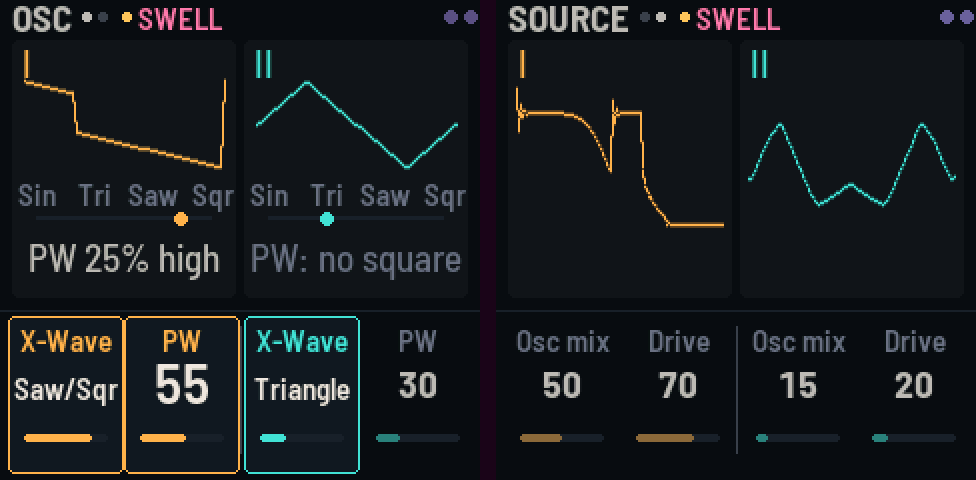
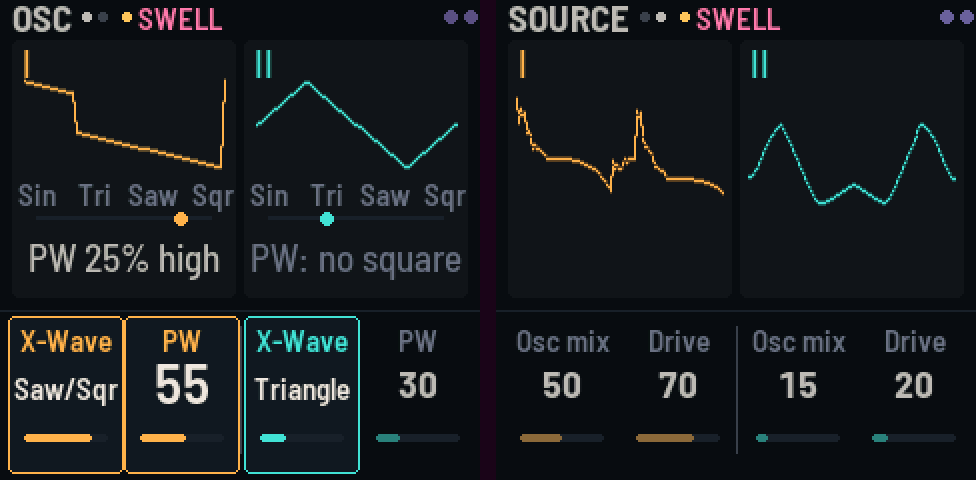
The black keys' map while SEL is held; SEL holds a crossfade where it is
Hold SEL for 0.4 s and the screen shows every black key on this page in the panel's groups, lit as
the keys are, with each one's name and setting (the LFO pages' routing layer there). A turning knob
or a held white key takes the screen back.

Keeping a crossfade with SEL didn't work on the device: a finger's pressure falls on its way up,
before the key counts as let go, and the blend followed it back to the start. Now SEL down holds the
blend where it is; letting go keeps it. The crossfade scenario lifts the finger gradually (without
the fix it lands at the start).

diff --git a/web/emu/index.html b/web/emu/index.html
@@ -391,7 +391,7 @@ kbd { font: 500 .85em var(--mono); background: var(--card); border: 1px solid va
   <h2 class="sec"><span>Switches</span></h2>
 
   <div class="g-card full">
-    <h3>Black keys <span class="g-sub">some step through settings: dark → lit → winking</span></h3>
+    <h3>Black keys <span class="g-sub">some step through settings: dark → lit → winking · hold <span class="cap">SEL</span>: the map on screen</span></h3>
     <div class="kmap">
       <h4>Normal</h4>
       <div class="krow">
@@ -509,7 +509,7 @@ kbd { font: 500 .85em var(--mono); background: var(--card); border: 1px solid va
     </div>
     <dl class="acts">
       <div><dt>Go to a scene</dt><dd>Tap a <span class="cap white">white key</span></dd></div>
-      <div><dt>Visit, then come back</dt><dd>Hold a <span class="cap white">white key</span>, let go (on the FM‑1: press harder to go further in, all the way to take it, <span class="cap">SEL</span> as you let go to keep the blend)</dd></div>
+      <div><dt>Visit, then come back</dt><dd>Hold a <span class="cap white">white key</span>, let go (on the FM‑1: press harder to go further in, all the way to take it, <span class="cap">SEL</span> while holding, then let go, to keep the blend)</dd></div>
       <div><dt>Save a sound to a scene</dt><dd>Hold <span class="cap">SAVE</span> first, then tap a <span class="cap white">white key</span></dd></div>
       <div><dt>Pick a bank</dt><dd>Hold <span class="cap">SEL</span>, tap one of the top four <span class="cap white">white keys</span>: A · B · C · Presets (alone they’re the gestures)</dd></div>
       <div><dt>Save everything</dt><dd>Tap <span class="cap">SAVE</span></dd></div>

diff --git a/firmware/src/app/ui.c b/firmware/src/app/ui.c
@@ -136,6 +136,7 @@ static struct {
     int8_t save_q;                     /* a save waiting for the dip (playing): -2 none, -1 the sound, N scene N */
     uint32_t save_t;                   /* ... asked then */
     uint32_t arp_t;                    /* the last ARP tap (two quick taps: stay on the Swell page) */
+    uint32_t sel_t;                    /* when SEL went down (held 0.4 s: the black keys' map) */
     uint8_t v2_out;                    /* drone II faded out on its own (SEL + PLAY) */
     uint32_t rst_t;                    /* when the LFO reset key went down (a hold locks the LFO to the pulse) */
     uint8_t rst_done;                  /* that hold has acted */
@@ -855,6 +856,26 @@ static void press_run(void)                            /* each frame, while a sc
     uint32_t now = plat_ms();
     if (ui.press < 0)
         return;
+    if ((ui.btn >> B_SEL & 1u) && !ui.press_done && now - ui.press_t0 >= PR_TAP_MS) {
+        /* SEL down during a crossfade: the blend holds where it is, so lifting the finger (its pressure falls
+         * on the way up, before the key lets go) can't take it back; let go to keep it */
+        ui.btn_used |= 1u << B_SEL;
+        ui.press_hi_t = 0;
+        scene_name(t, proj.bank, ui.press);
+        {
+            char *q = t;
+            while (*q)
+                q++;
+            *q++ = ' ';
+            *q++ = ' ';
+            itoa_u((uint32_t)(ui.press_x * 100.0f + 0.5f), q);
+            while (*q)
+                q++;
+            scopy(q, "%");
+        }
+        say_c(t, "HELD", K_GOLD);
+        return;
+    }
     p = press_scaled(plat_pressure(WHITE_K[ui.press]));
     x = fm_clampf(((float)p / 127.0f - PR_DEAD) / (PR_FULL - PR_DEAD), 0.0f, 1.0f);
     if ((float)p / 127.0f >= PR_COMMIT) {
@@ -1060,6 +1081,8 @@ static void input(void)
     save_run();
     ch = btn ^ ui.btn;
     ui.btn = btn;
+    if ((ch & btn) >> B_SEL & 1u)
+        ui.sel_t = plat_ms();
     for (i = 0; i < NB; i++) {
         uint32_t m = 1u << i;
         if (!(ch & m))
@@ -2046,6 +2069,71 @@ static void pic_tone2(int32_t y0)
     cv_text(128, y0 + 100, &FONT_XS, "not in scenes", K_DIM);
 }
 
+/* THE BLACK KEYS' MAP (SEL held 0.4 s, nothing else asking for the screen: a knob turning, a white key held): the
+ * eleven keys as the panel groups them, each row a group (drone I | the global two | drone II | the links |
+ * cross-mod), its keys lit as the panel's are, each key's name and setting. The LFO pages' layer on those pages */
+#define KEYMAP_MS 400u
+static int keymap_on(void)
+{
+    uint32_t white = 0, i;
+    for (i = 0; i < NWHITE; i++)
+        white |= 1u << WHITE_K[i];
+    return (ui.btn >> B_SEL & 1u) && plat_ms() - ui.sel_t >= KEYMAP_MS && !lit(0) && !lit(1) && !lit(2) &&
+           !lit(3) && !(ui.keys & white) && ui.press < 0;
+}
+static void sw_text(sw_t w, const char **name, const char **st)
+{
+    static const char *const SUB[5] = {"", "-1 oct", "-2 oct", "1/3", "1/5"}, *const MODE[3] = {"LP", "BP", "HP"};
+    static const char *const TAP[4] = {"off", "I", "II", "I+II"};
+    const int16_t *p = &proj.par[DR_GP(w.g, 0)];
+    int on = sw_get(w);
+    *st = on ? "on" : "off";
+    switch (w.s) {
+    case S_PARTNER: *name = "Partner"; break;
+    case S_SUBOCT: *name = "Sub"; *st = SUB[(unsigned)p[GP_SUBOCT] < 5u ? p[GP_SUBOCT] : 1]; break;
+    case S_HP: *name = "Filter"; *st = MODE[(unsigned)p[GP_MODE] < 3u ? p[GP_MODE] : 0]; break;
+    case S_PLOCK: *name = "Pitch lock"; break;
+    case S_LFORESET: *name = "LFO reset"; *st = proj.par[P_LFO_LOCK] ? "locked" : "tap"; break;
+    case S_PLINK: *name = "Pitch link"; break;
+    case S_SYNC: *name = "Hard sync"; break;
+    case S_XMOD: *name = "X-mod"; break;
+    case S_OTAP: *name = "Osc LFO"; *st = TAP[(unsigned)p[GP_OLFO] & 3u]; break;
+    case S_ODEST: *name = "Osc to"; *st = on ? "X-Wave" : "Pitch"; break;
+    case S_FDEST: *name = "Filt to"; *st = on ? "Reso" : "Cutoff"; break;
+    case S_FTAP: *name = "Filt LFO"; *st = TAP[(unsigned)p[GP_FLFO] & 3u]; break;
+    case S_DTAP: *name = "Dly LFO"; *st = TAP[(unsigned)proj.par[P_DLY_LFO] & 3u]; break;
+    default: *name = ""; *st = ""; break;
+    }
+}
+/* rows r0 .. r1 - 1 of the map from y0 (38 px a row): the picture holds the first three, the values' place the
+ * last two and the line about SEL's other uses */
+#define KEYMAP_ROW 38
+static void keymap_rows(int32_t y0, int r0, int r1)
+{
+    static const uint8_t GROUP[5][2] = {{0, 3}, {3, 2}, {5, 3}, {8, 2}, {10, 1}};   /* first key, how many */
+    const sw_t *layer = sw_layer();
+    int r, k;
+    for (r = r0; r < r1; r++) {
+        int32_t y = y0 + (r - r0) * KEYMAP_ROW;
+        uint16_t c = r == 0 ? K_DRONE[0] : r == 2 ? K_DRONE[1] : K_TEXT2;
+        if (r == 0 || r == 2)
+            cv_text(10, y + 8, &FONT_S, r ? "II" : "I", c);
+        for (k = 0; k < GROUP[r][1]; k++) {
+            sw_t w = layer[GROUP[r][0] + k];
+            int on = sw_get(w);
+            const char *name, *st;
+            int32_t kx = 28 + k * 8, cx = 56 + k * 62;
+            if (on)                            /* the key: lit as the panel's (a third choice: half) */
+                cv_round(kx, y + 6, 5, 18, 2, on == 2 ? blend(K_PANEL, c, 1, 2) : c);
+            else
+                cv_frame(kx, y + 6, 5, 18, K_FAINT);
+            sw_text(w, &name, &st);
+            cv_text(cx, y + 1, &FONT_XS, name, K_DIM);
+            cv_text(cx, y + 14, &FONT_S, st, on ? c : K_TEXT2);
+        }
+    }
+}
+
 /* Setup: a small sketch for each knob: the glide, the fade's curve, the drift, how wide the drones sit */
 static void pic_setup(int32_t y0)
 {
@@ -2139,13 +2227,16 @@ static void pic_macros(int32_t y0)
 static void draw_pic(void)
 {
     int msg = plat_ms() < ui.msg_until;
-    uint32_t h = hash(hash(2166136261u, (uint32_t)msg | ui.view << 2),
+    uint32_t h = hash(hash(2166136261u, (uint32_t)msg | ui.view << 2 | (uint32_t)keymap_on() << 8),
                       msg ? ui.msg_until : 0);
     if (h == ui.sig[1] && ui.frame % SCOPE_EVERY)
         return;                                /* the waveforms move: redrawn ~20 times a second */
     ui.sig[1] = h;
     cv_begin(240, PIC_H, K_BG);
-    if (ui.view == V_PULSE || ui.view == V_LFO || ui.view == V_LFO2 || ui.view == V_FX || ui.view == V_FX2 || ui.view == V_MACROS ||
+    if (keymap_on()) {
+        cv_round(6, 4, WIDE_W, PAN_H + 8, 4, K_PANEL);
+        keymap_rows(8, 0, 3);
+    } else if (ui.view == V_PULSE || ui.view == V_LFO || ui.view == V_LFO2 || ui.view == V_FX || ui.view == V_FX2 || ui.view == V_MACROS ||
         ui.view == V_SETUP || ui.view == V_SETUP2 || ui.view == V_TONE2) {
         cv_round(6, 4, WIDE_W, PAN_H, 4, K_PANEL);
         switch (ui.view) {
@@ -2202,6 +2293,20 @@ static void draw_values(void)
         int p = knob_param((int)i);
         h = hash(h, (p < 0 ? 0xFFFFu : (uint32_t)(uint16_t)proj.par[p]) | (uint32_t)lit((int)i) << 16 |
                         (uint32_t)(ui.btn >> B_SEL & 1u) << 17 | (uint32_t)(proj.par[P_PLOCK] != 0) << 18);
+    }
+    if (keymap_on()) {                         /* SEL held: the map's last two rows here */
+        h = hash(h, 0x4B4Du);
+        for (i = 0; i < 11u; i++)
+            h = hash(h, (uint32_t)sw_get(sw_layer()[i]) | (uint32_t)proj.par[P_LFO_LOCK] << 4);
+        if (h == ui.sig[2])
+            return;
+        ui.sig[2] = h;
+        cv_begin(240, VAL_H, K_BG);
+        cv_round(6, 0, WIDE_W, 70, 4, K_PANEL);
+        keymap_rows(-4, 3, 5);
+        cv_text(10, 72, &FONT_XS, "with SEL:  D5-G5 bank   OCT wave back", K_DIM);
+        cv_blit(0, VAL_Y);
+        return;
     }
     if (h == ui.sig[2])
         return;

diff --git a/tools/make_screens.py b/tools/make_screens.py
@@ -10,7 +10,7 @@ from PIL import Image, ImageDraw, ImageFont
 
 ROOT = os.path.dirname(os.path.dirname(os.path.abspath(__file__)))
 BUTTONS = [("play", ["play", "play2"]), ("tone", ["tone", "tone2"]), ("osc", ["osc", "source"]), ("seq", ["macros", "partner"]),
-           ("lfo", ["lfo", "lfo2"]), ("swell", ["pulse"]), ("effects", ["fx", "fx2"]), ("setup", ["setup", "setup2"])]
+           ("lfo", ["lfo", "lfo2"]), ("swell", ["pulse"]), ("effects", ["fx", "fx2"]), ("setup", ["setup", "setup2"]), ("keys", ["keymap"])]
 SCALE, GAP = 2, 16
 BG = (26, 4, 24)
 

diff --git a/host/omni_host.c b/host/omni_host.c
@@ -364,6 +364,8 @@ static int expect(const char *what, const char *val)
         got = (int)(dr_fade * 100.0f + 0.5f);
     else if (!strcmp(what, "view"))
         got = ui.view;
+    else if (!strcmp(what, "keymap"))             /* the black keys' map showing (SEL held) */
+        got = keymap_on();
     else if (!strcmp(what, "dirty"))
         got = ui.dirty;
     else if (!strcmp(what, "loop"))                /* the motion loop: 0 idle, 1 recording, 2 playing */

diff --git a/README.md b/README.md
@@ -274,6 +274,11 @@ are underneath: at 0 a macro is gone without a trace.
 Lit means on. They follow the page: on the LFO pages they set the LFO's routing. Normally they're grouped
 by meaning: drone I (keys 1–3), the two global keys (4–5), drone II (6–8), the links (9–11).
 
+**Hold SEL** for a moment and the screen shows what every black key does on this page, and how each is set,
+in the panel's groups. It steps aside while you turn a knob or hold a white key.
+
+<img src="docs/img/page-keys.png" width="244" alt="The black keys' map while SEL is held: each group of keys, lit as on the panel, with its name and setting">
+
 | Key | Normally | On the LFO pages |
 |---|---|---|
 | 1 | I partner | I osc wave (I, II, both) |
@@ -303,7 +308,7 @@ by meaning: drone I (keys 1–3), the two global keys (4–5), drone II (6–8),
 | **White key** (the lower 12, F3–C5): **tap** | morph to the scene stored there in the current bank, over the scene switch time, and stay (turn a knob to stop part way). A tap is anything under a quarter of a second, however hard. A scene keeps the sound, not the room: Speaker, Pressure, Stereo, Tune, Pitch lock, Fade, Morph and Scene switch stay as they are |
 | **Hold and press** a scene key | a **crossfade**: the harder you press, the further the sound moves from where it was into that scene (a light rest does nothing). The key gets brighter as you go in; the screen says how far ("A5 40%"). **Let go** and it glides back to where it began, over the Morph time. Press it again on the way back and you pick up from there |
 | **Press all the way** (and hold a moment) | the scene is **taken**: the key flashes, and letting go keeps it |
-| **SEL held as you let go** | the blend **stays**, as a sound of its own between the two |
+| **Press SEL while holding**, then let go | the blend **holds** where it is from the moment SEL goes down (lifting your finger can't move it), and **stays** when you let go: a sound of its own between the two |
 | **SAVE, then a white key** | hold SAVE first, then tap the key: the sound is stored there (a key pressed first goes to its scene instead; lit keys hold a scene; the key of the scene you're on blinks slowly, until you turn a knob or flip a switch; while playing, the sound dips for a moment as it's written). Not into the Presets: they're read-only (pick bank A, B or C first: SEL + D5, E5 or F5) |
 | **SEL + a top white key** | picks the bank the 12 scene keys play: D5 bank **A**, E5 **B**, F5 **C** (yours), G5 the **Presets** (the starting sound and a deep bass sound for now; more to come). The screen names scenes by bank: "B5" |
 | **Top white key** (D5–G5) alone | a **gesture**: Beat, Heat, Converge, Wash (see [The macros](#the-macros)) |

diff --git a/docs/decisions.md b/docs/decisions.md
@@ -175,3 +175,9 @@ at the end. The current state is in the [README](../README.md) and the code.
   sensitivity x0.5–x2). Speaker and Pressure are room settings, not in scenes. PROJ_FORMAT 23 (22 converted).
 - 2026-10-18: worst-case sound on the FM-1 (everything on, full feedback and character, all macros): 57 %
   average, 70 % peak block, no late blocks (0.1's effects). The new effects cost the same on the host.
+- 2026-10-18: SEL held 0.4 s shows the black keys' map over the whole screen: the five groups as rows, each key lit
+  as on the panel with its name and setting (the LFO pages' layer there); a turning knob or a held white key
+  takes the screen back.
+- 2026-10-18: during a crossfade, SEL down holds the blend where it is; letting go of the key then keeps it (a
+  finger's pressure falls on the way up, which had carried the blend back first).
+- 2026-10-18: the drones' pictures blend each new capture in over ~0.1 s.
